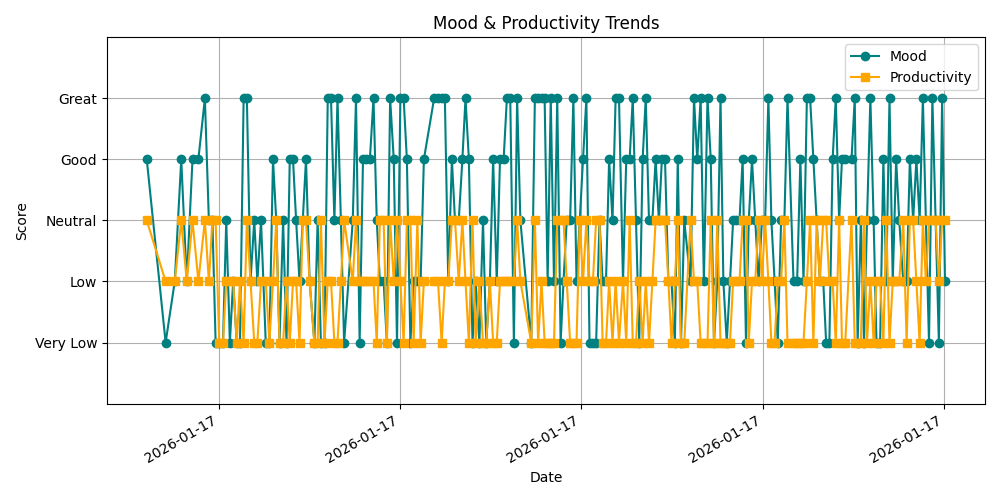
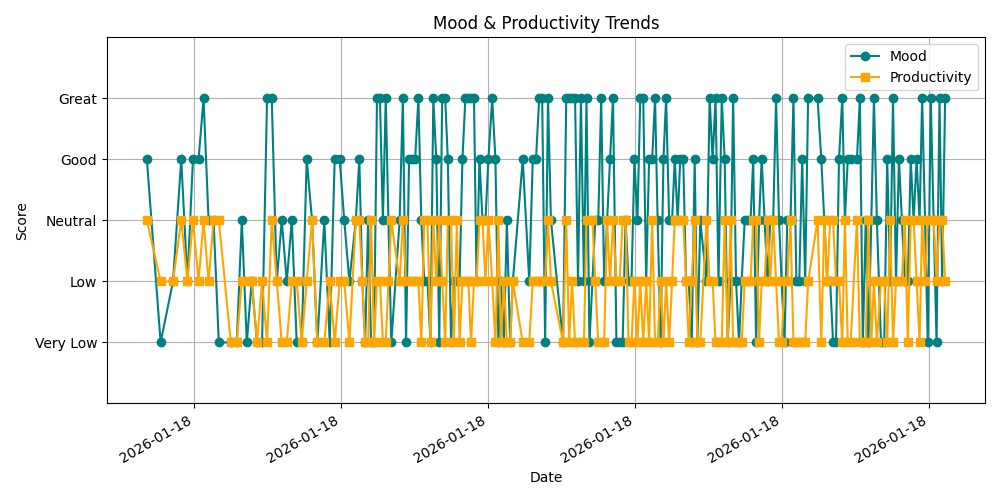
Daily log update [skip ci]

diff --git a/docs/log.md b/docs/log.md
@@ -885,3 +885,7 @@
 - Mood: 🙁 | Productivity: High | Date: 2026-01-17 04:44:21 UTC
 - Reflection: "Every day is a second chance."
 
+## Log Entry: Sun Jan 18 04:51:29 UTC 2026
+- Mood: 😄 | Productivity: Medium | Date: 2026-01-18 04:51:29 UTC
+- Reflection: "Every day is a second chance."
+

diff --git a/log.md b/log.md
@@ -885,3 +885,7 @@
 - Mood: 🙁 | Productivity: High | Date: 2026-01-17 04:44:21 UTC
 - Reflection: "Every day is a second chance."
 
+## Log Entry: Sun Jan 18 04:51:29 UTC 2026
+- Mood: 😄 | Productivity: Medium | Date: 2026-01-18 04:51:29 UTC
+- Reflection: "Every day is a second chance."
+
